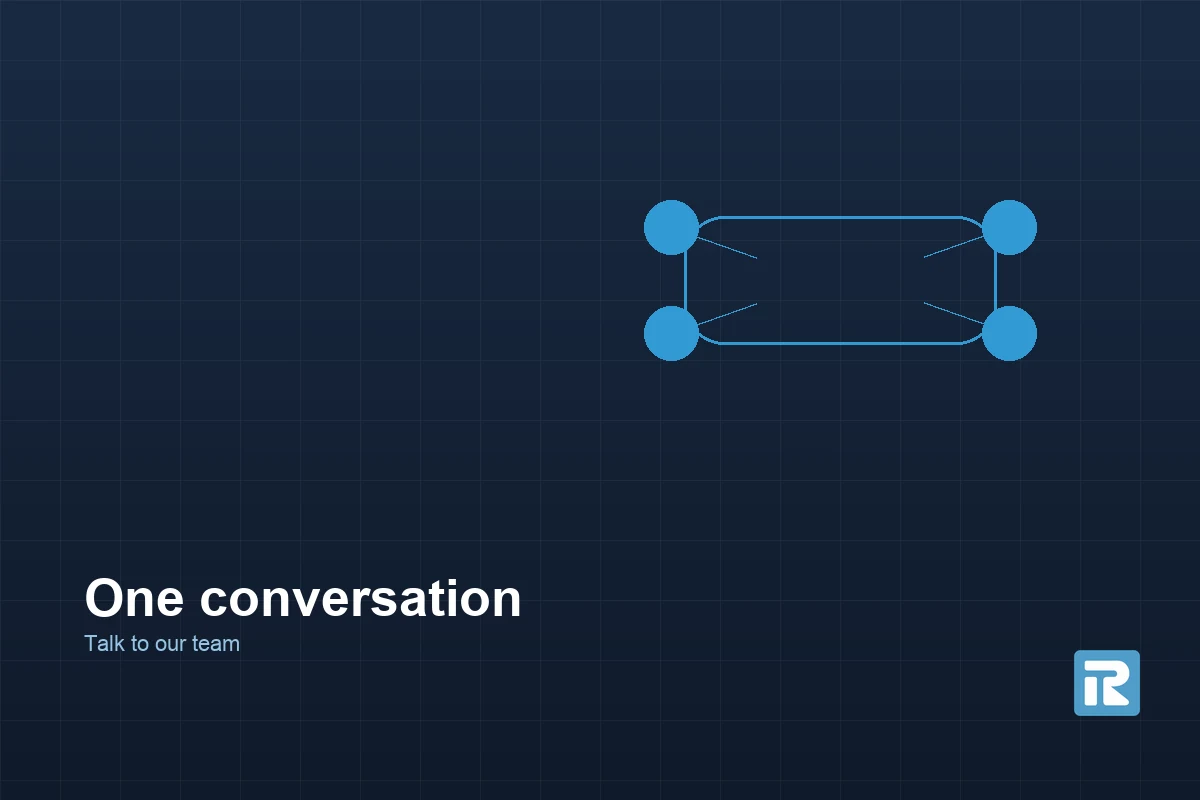
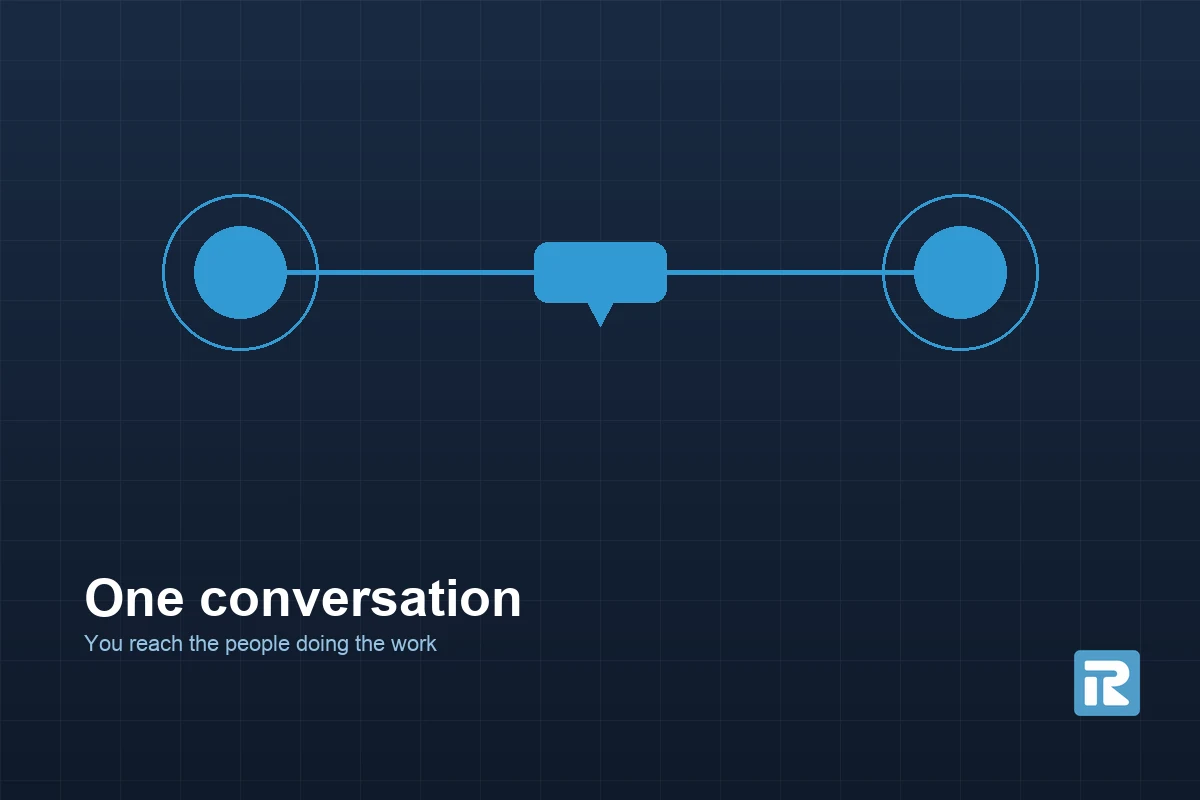
Fix the rest of the panels: ratios, repeats and empty slots
Audited every slot against the box it renders into. One more was being
cropped: About's 21:9 band pointed at the 4:3 office panel, so
object-cover threw away nearly half its height along with the caption.
It now has its own panel, drawn at 21:9, showing the group and the two
brands it runs, which is what that page is about anyway.

The contact panel was a table plan with four seats and two floating
rectangles that read as stray shapes. It now draws one thread from the
person asking to the person doing the work, which is what the page
claims.

Two panels were drawn but placed nowhere. Documents now sits beside the
eligibility list on all four registration pages, and the enquiry panel
heads the contact column on the homepage, both at their native 3:2 and
both hidden below lg where the column is too narrow to earn them.

Every slot now renders at the ratio it was drawn at: nothing is cropped
anywhere on the site.

Changed region(s): [[0.1233, 0.25, 0.8633, 0.4688], [0.0617, 0.7812, 0.37, 0.8125], [0.185, 0.2188, 0.2158, 0.25]]

diff --git a/components/pages/registration-service.tsx b/components/pages/registration-service.tsx
@@ -5,6 +5,7 @@ import { StructureFigure, STRUCTURE_BY_SLUG } from "@/components/shared/structur
 import { CITY_SERVICES, CITY_SERVICE_SLUGS } from "@/lib/city-services";
 import { getCity } from "@/lib/cities";
 import { Breadcrumbs } from "@/components/ui/breadcrumbs";
+import { BrandImage } from "@/components/ui/brand-image";
 import { FaqAccordion } from "@/components/ui/faq-accordion";
 import { JsonLd } from "@/components/ui/json-ld";
 import { ProcessTimeline } from "@/components/shared/process-timeline";
@@ -252,6 +253,13 @@ export function RegistrationServicePage({ service }: { service: RegistrationServ
                 </li>
               ))}
             </ul>
+
+            <BrandImage
+              slot="documents"
+              sizes="(min-width: 1024px) 34rem, 100vw"
+              aspect="aspect-[3/2]"
+              className="mt-10 hidden lg:block"
+            />
           </div>
           <div>
             <h2 className="text-3xl">Documents required</h2>

diff --git a/lib/images.ts b/lib/images.ts
@@ -1,5 +1,6 @@
 import type { StaticImageData } from "next/image";
 
+import structure from "@/public/photos/raulji-group-structure.webp";
 import office from "@/public/photos/raulji-group-office.webp";
 import consulting from "@/public/photos/raulji-group-business-consulting.webp";
 import registration from "@/public/photos/raulji-group-company-registration.webp";
@@ -44,6 +45,12 @@ export interface BrandImageEntry {
 }
 
 export const IMAGES = {
+  /** Wide band, 21:9. The group and the two brands it runs. */
+  structure: {
+    src: structure,
+    alt: "Raulji Group and its two brands, Raulji Consulting Services and Raulji Technologies",
+    placeholder: false,
+  },
   office: {
     src: office,
     alt: "Raulji Group, Vadodara, Gujarat",

diff --git a/app/page.tsx b/app/page.tsx
@@ -545,6 +545,12 @@ export default function HomePage() {
 
         <div className="mt-12 grid items-start gap-8 lg:grid-cols-[0.95fr_1.05fr] lg:gap-12">
           <div className="order-2 lg:order-1">
+            <BrandImage
+              slot="enquiry"
+              sizes="(min-width: 1024px) 34rem, 100vw"
+              aspect="aspect-[3/2]"
+              className="mb-6 hidden lg:block"
+            />
             <dl className="grid gap-px overflow-hidden rounded-2xl border border-border bg-border sm:grid-cols-2 lg:grid-cols-1">
               <div className="bg-card px-5 py-4">
                 <dt className="text-xs font-semibold uppercase tracking-wider text-muted-foreground">

diff --git a/app/about/page.tsx b/app/about/page.tsx
@@ -112,8 +112,11 @@ export default function AboutPage() {
       </PageHeader>
 
       <Section>
+        {/* Drawn at 21:9, the ratio this band uses. It previously pointed at the
+            4:3 office panel, so object-cover threw away nearly half its height
+            along with the caption. */}
         <BrandImage
-          slot="office"
+          slot="structure"
           sizes="(min-width: 1024px) 76rem, 100vw"
           aspect="aspect-[21/9]"
           className="mb-12"

diff --git a/scripts/gen-panels.py b/scripts/gen-panels.py
@@ -106,16 +106,23 @@ def documents(w=1200,h=800,title="Filed correctly",sub="Company registration"):
     d.line([(sx-sr*0.4,sy),(sx-sr*0.1,sy+sr*0.35),(sx+sr*0.45,sy-sr*0.35)],fill=NAVY,width=4)
     return label(im,title,sub)
 
-# 4. Meeting: a table plan, four seats, one agenda.
+# 4. Contact: one thread, not a switchboard. A single line runs from the person
+# asking to the person doing the work, past the handoffs it does not make.
 def meeting(w=1200,h=800):
     im=base(w,h); d=ImageDraw.Draw(im)
-    cx,cy=int(w*0.70),int(h*0.35); tw,th=int(w*0.26),int(h*0.16)
-    d.rounded_rectangle([cx-tw//2,cy-th//2,cx+tw//2,cy+th//2],radius=int(h*0.05),outline=(*BLUE,200),width=3)
-    for dx,dy in [(-0.34,-0.20),(0.34,-0.20),(-0.34,0.20),(0.34,0.20)]:
-        px,py=cx+int(tw*dx*1.6),cy+int(th*dy*2.1); rr=int(w/44)
-        d.ellipse([px-rr,py-rr,px+rr,py+rr],fill=(*BLUE,200))
-        d.line([(px,py),(cx+int(tw*dx*0.8),cy+int(th*dy*0.9))],fill=(*BLUE,70),width=2)
-    return label(im,"One conversation","Talk to our team")
+    ax,ay=int(w*0.20),int(h*0.34)
+    bx,by=int(w*0.80),int(h*0.34)
+    # the single thread
+    d.line([(ax,ay),(bx,by)],fill=(*BLUE,235),width=5)
+    for px,py in ((ax,ay),(bx,by)):
+        r=int(w/26)
+        d.ellipse([px-r,py-r,px+r,py+r],fill=(*BLUE,255))
+        d.ellipse([px-int(r*1.7),py-int(r*1.7),px+int(r*1.7),py+int(r*1.7)],outline=(*BLUE,80),width=3)
+    # a message on the line
+    mx,my=int(w*0.50),ay; mw,mh=int(w*0.11),int(h*0.075)
+    d.rounded_rectangle([mx-mw//2,my-mh//2,mx+mw//2,my+mh//2],radius=int(h*0.018),fill=(*BLUE,255))
+    d.polygon([(mx-int(mw*0.10),my+mh//2),(mx+int(mw*0.10),my+mh//2),(mx,my+mh//2+int(h*0.030))],fill=(*BLUE,255))
+    return label(im,"One conversation","You reach the people doing the work")
 
 # 5. Gujarat: the coverage figure, centre and markets.
 def gujarat(w=1600,h=900):
@@ -155,6 +162,24 @@ def enquiry(w=1200,h=800):
     d.rounded_rectangle([bx2,by2,bx2+int(fw*0.44),by2+int(h*0.06)],radius=int(h*0.015),fill=(*BLUE,255))
     return label(im,"Tell us what you are building","Get business guidance")
 
+# 8. The group itself: one parent, two brands, drawn wide for a page band.
+def group(w=1800,h=771):
+    im=base(w,h); d=ImageDraw.Draw(im)
+    px,py=int(w*0.30),int(h*0.42); pr=int(w/26)
+    d.ellipse([px-pr,py-pr,px+pr,py+pr],fill=(*BLUE,255))
+    d.ellipse([px-int(pr*1.8),py-int(pr*1.8),px+int(pr*1.8),py+int(pr*1.8)],outline=(*BLUE,70),width=3)
+    for fy,lbl in ((0.22,"Consulting Services"),(0.62,"Technologies")):
+        cx,cy=int(w*0.66),int(h*fy); cr=int(w/40)
+        d.line([(px+pr,py),(cx-cr,cy)],fill=(*BLUE,120),width=4)
+        if lbl=="Technologies":
+            d.ellipse([cx-cr,cy-cr,cx+cr,cy+cr],outline=(*BLUE,220),width=4)
+        else:
+            d.ellipse([cx-cr,cy-cr,cx+cr,cy+cr],fill=(*BLUE,220))
+        d.text((cx+int(cr*1.8),cy-int(h*0.028)),lbl,font=font(int(w/56),True),fill=(205,228,244))
+    d.text((px-int(pr*2.4),py-int(h*0.20)),"Raulji Group",font=font(int(w/48),True),fill=(255,255,255))
+    return label(im,"One group, two brands","Kept separate because they do different work")
+
+save(group(),"raulji-group-structure")
 save(office(1200,900),"raulji-group-office")
 save(consulting(1200,800),"raulji-group-business-consulting")
 save(documents(1600,686,title="Filed correctly",sub="Company registration"),"raulji-group-company-registration")
